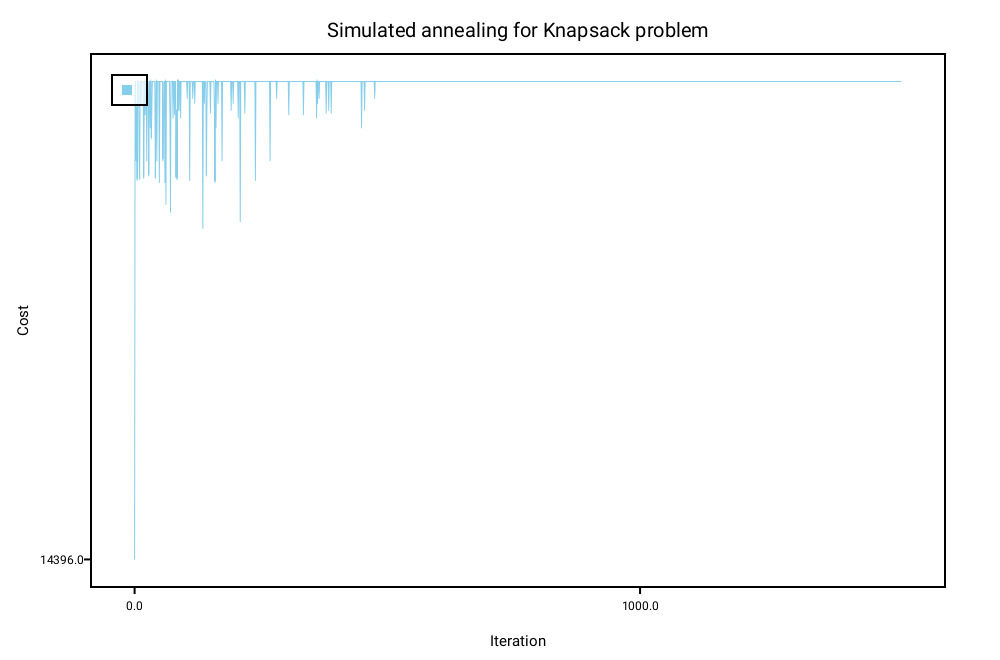
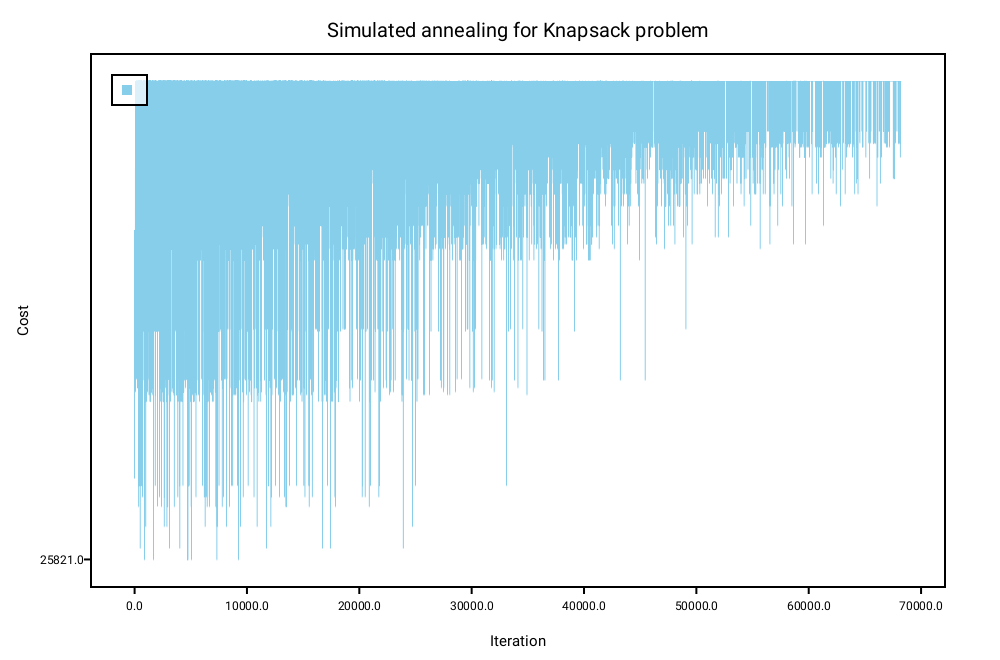
Tune parameters

diff --git a/Sources/SimulatedAnnealing/Solver/Solver.swift b/Sources/SimulatedAnnealing/Solver/Solver.swift
@@ -22,7 +22,7 @@ protocol Solver {
     var initialState: Configuration { get set }
     var coolingCoefficient: Double { get set }
     
-    func frozen(_ temperature: Temperature) -> Bool
+    func frozen(_ temperature: Temperature, _ changeRatio: Float) -> Bool
     func equilibrium(_ iteration: Int, _ problem: Problem) -> Bool
 }
 
@@ -34,30 +34,39 @@ extension Solver {
         var temperature = initialTemperature
         var best = initialState
         var state = initialState
-        var points = [PlotPoint]()
+        var points = [Int]()
+        
+        var changes = 1
+        var changeRatio: Float = 1.0
         var j = 0
         print("Initial state: \(state)\nInitial temperature: \(temperature)")
         
-        while !frozen(temperature) {
+        while !frozen(temperature, changeRatio) {
             var i = 0
-            
-            if plot {
-                points.append((x: Float(j), y: Float(state.cost)))
-            }
-            
+                        
             while !equilibrium(i, problem) {
-                i += 1
-                state = next(best, temperature)
+                if plot {
+                    points.append(state.cost)
+                }
+                
+                let newState = next(best, temperature)
+                if newState.cost != state.cost {
+                    changes += 1
+                }
+                state = newState
                                 
                 if state.isBetter(than: best) {
                     best = state
                 }
+                i += 1
             }
             
+            changeRatio = Float(changes) / Float(j*i+1)
             temperature *= coolingCoefficient
             j += 1
         }
         
+        print(points[0...10])
         if plot {
             self.plot(points)
         }
@@ -76,14 +85,14 @@ extension Solver {
         return Double.random(in: 0.0...1.0) < pow(M_E, -(delta / temperature)) ? new : state
     }
     
-    func plot(_ points: [PlotPoint]) {
+    func plot(_ points: [Int]) {
         let renderer = AGGRenderer()
         var plot = LineGraph<Float, Float>()
-        plot.addSeries(points.map { $0.x }, points.map { $0.y }, label: "", color: .lightBlue)
+        plot.addSeries(points.enumerated().map { Float($0.0) }, points.map { Float($0) }, label: "", color: .lightBlue)
         plot.plotTitle.title = "Simulated annealing for Knapsack problem"
         plot.plotLabel.xLabel = "Iteration"
         plot.plotLabel.yLabel = "Cost"
-        plot.plotLineThickness = 1.0
+        plot.plotLineThickness = 0.5
         
         let path = NSString(string: "~/FIT/KOP/simulated-annealing/Output").expandingTildeInPath
         let fileName = path + "/simulated_annealing_knapsack.png"

diff --git a/Sources/SimulatedAnnealing/Solver/KnapsackSolver.swift b/Sources/SimulatedAnnealing/Solver/KnapsackSolver.swift
@@ -22,8 +22,8 @@ final class KnapsackSolver: Solver {
         self.equilibriumCoefficient = equilibriumCoefficient
     }
     
-    func frozen(_ temperature: Double) -> Bool {
-        return temperature < 1.0
+    func frozen(_ temperature: Double, _ changeRatio: Float) -> Bool {
+        return changeRatio < 0.2
     }
     
     func equilibrium(_ iteration: Int, _ problem: Problem) -> Bool {
@@ -31,7 +31,7 @@ final class KnapsackSolver: Solver {
     }
     
     /// Find the initial temperature by increasing it and observing accepted changes to worse
-    func temperatureTunning(_ ratioTreshold: Double = 1.0, _ epsilon: Double = 0.05, _ step: Temperature = 50.0) {
+    func temperatureTunning(_ ratioTreshold: Double = 0.8, _ epsilon: Double = 0.05, _ step: Temperature = 20.0) {
         var temperature = initialTemperature
         var state = initialState
         let acceptedInterval = (ratioTreshold - epsilon)...(ratioTreshold + epsilon)

diff --git a/Sources/SimulatedAnnealing/Engine/KnapsackEngine.swift b/Sources/SimulatedAnnealing/Engine/KnapsackEngine.swift
@@ -29,9 +29,8 @@ final class KnapsackEngine: Engine {
     }
     
     func measure(_ problem: KnapsackProblem, _ plot: Bool) -> SolverResult {
-//        let initialState = GreedySolver().solve(problem)
-        let initialState = KnapsackConfiguration.randomSolution(for: problem)
-        let solver = KnapsackSolver(initialState: initialState, initialTemperature: 10, coolingCoefficient: 0.995, equilibriumCoefficient: 10)
+        let initialState = GreedySolver().solve(problem)
+        let solver = KnapsackSolver(initialState: initialState, initialTemperature: 10, coolingCoefficient: 0.995, equilibriumCoefficient: 5)
         
         let start = DispatchTime.now()
         solver.temperatureTunning()
